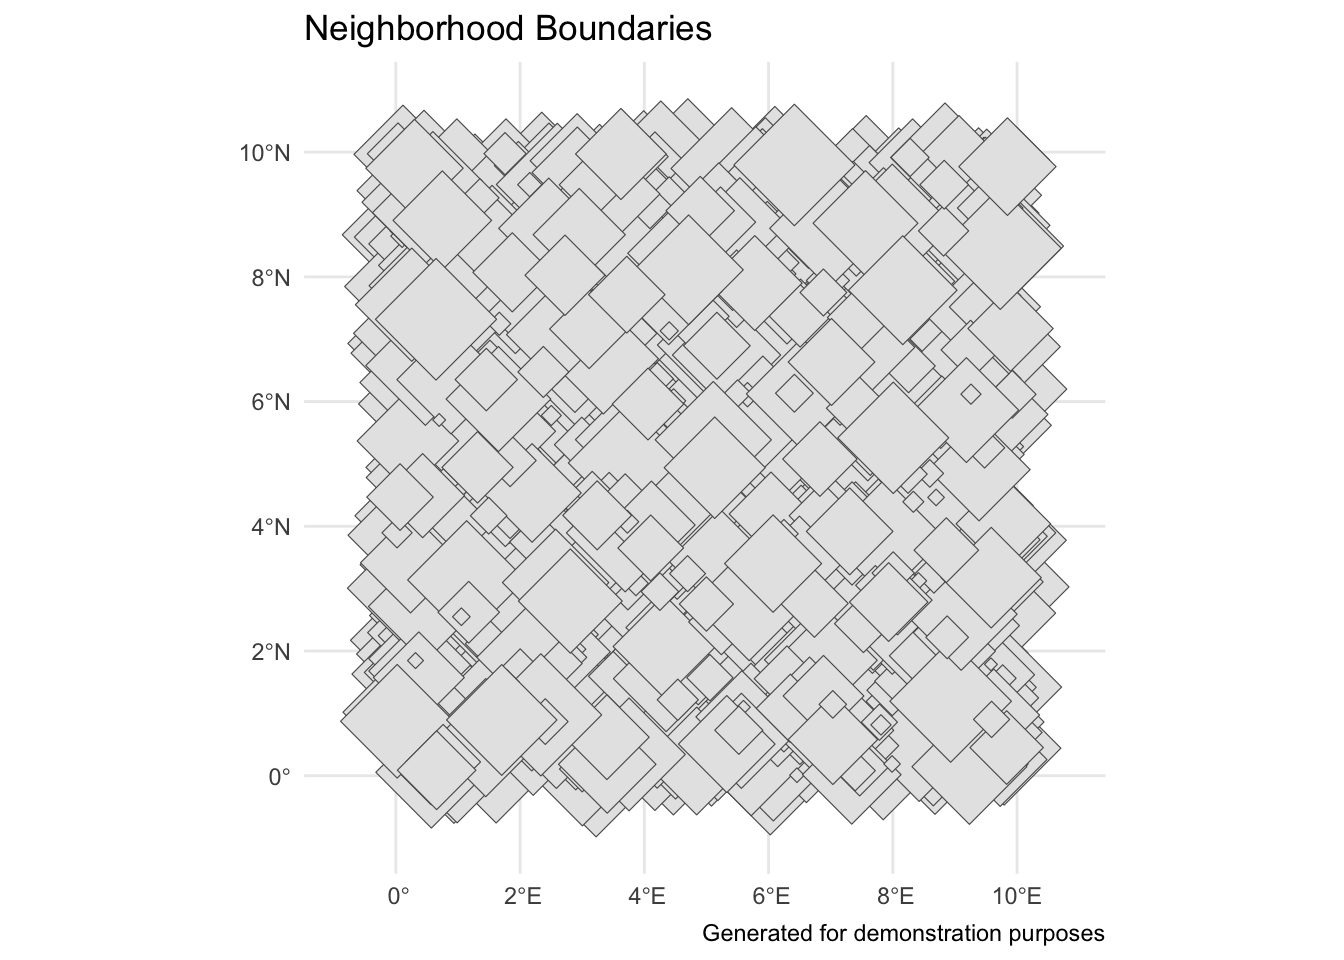
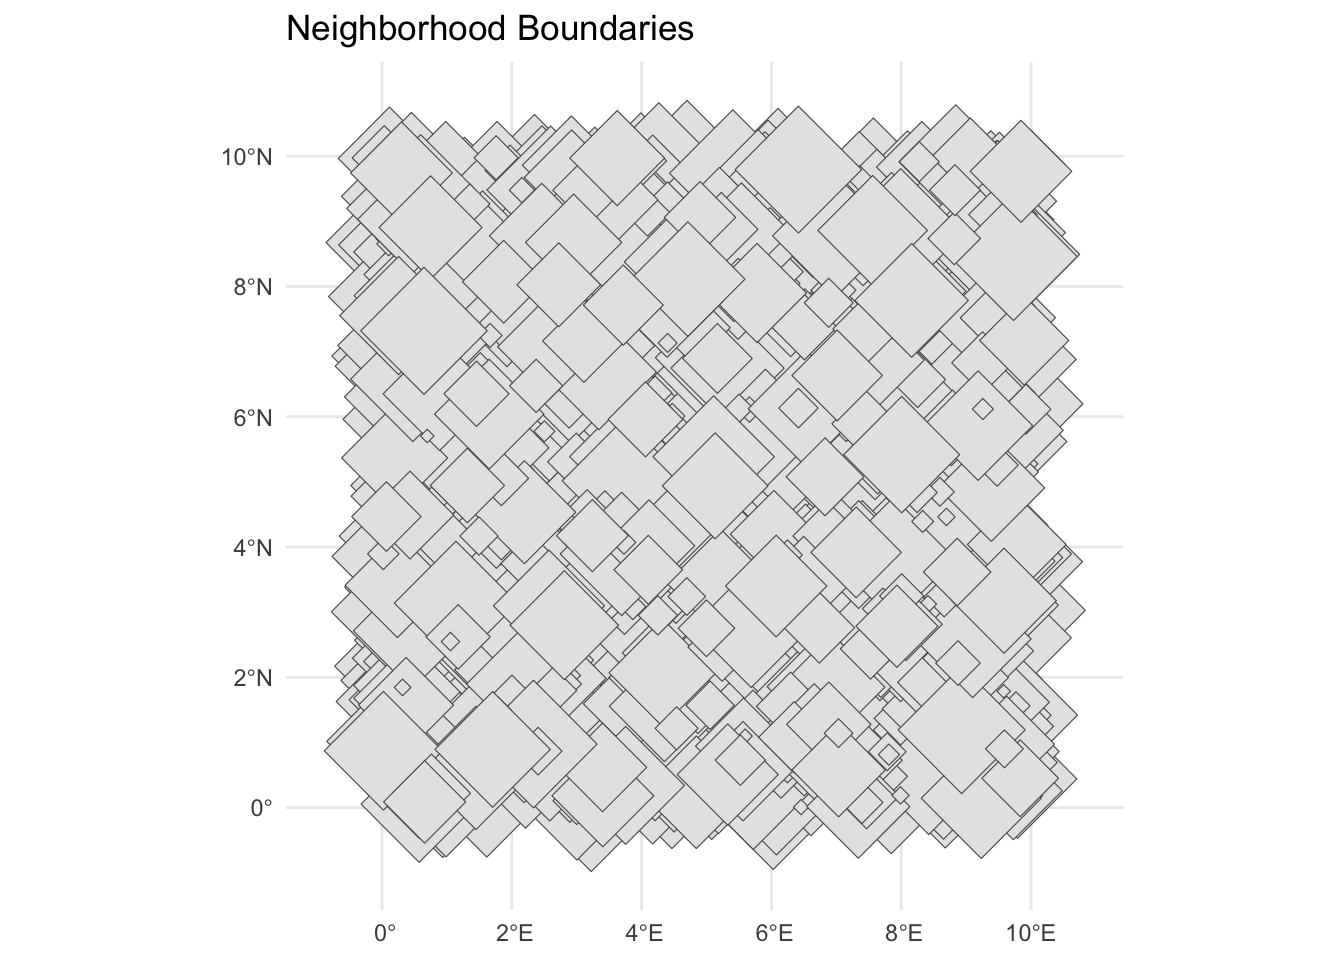
render

diff --git a/docs/multilevel.html b/docs/multilevel.html
@@ -212,7 +212,7 @@ pre > code.sourceCode > span > a:first-child::before { text-decoration: underlin
 <section id="project-description" class="level1">
 <h1>Project Description</h1>
 <p><em>This is a research project I developed during my Master’s Degree in Environmental Psychology. It includes a hierarchical model that explores the cross-level dynamics within communities in the Netherlands.</em></p>
-<p><em>I am still motivated about executing this project in a practical setting because it addresses contemporary challenges in ethnically heterogeneous neighborhoods and provides an unique approach to understanding social cohesion. It assesses the individual-level, cognitive processes in neighborhood behavior through spatial measurement, which can offer alternative evidence for policymakers’ views toward contextual level action (e.g., developing economically vital cities, demolition, and housing renovation) (Van Kempen &amp; Bolt, 2009). By bridging the gap between individual-level processes and neighborhood dynamics, this research has the potential to inform policy interventions and community development initiatives.</em></p>
+<p><em>I am still motivated about executing this project again in a different setting because it addresses contemporary challenges in ethnically heterogeneous neighborhoods and provides an unique approach to understanding social cohesion. It assesses the individual-level, cognitive processes in neighborhood behavior through spatial measurement, which can offer alternative evidence for policymakers’ views toward contextual level action (e.g., developing economically vital cities, demolition, and housing renovation) (Van Kempen &amp; Bolt, 2009). By bridging the gap between individual-level processes and neighborhood dynamics, this research has the potential to inform policy interventions and community development initiatives.</em></p>
 <ul>
 <li><p><strong><em>Outcome Variable</em></strong></p>
 <ul>
@@ -221,14 +221,14 @@ pre > code.sourceCode > span > a:first-child::before { text-decoration: underlin
 <li><p><em><strong>Demographics</strong>:</em></p>
 <ul>
 <li><p><em><code>age</code>: Normally distributed continuous variable.</em></p></li>
-<li><p><em><code>education</code>: Dichotomous variable generated using <code>rbinom</code> with a probability of 0.6 for university education.</em></p></li>
-<li><p><em><code>income</code>: Ordinal variable sampled from 1 to 5.</em></p></li>
+<li><p><em><code>education</code>: Dichotomous variable</em></p></li>
+<li><p><em><code>income</code>: Ordinal variable from 1 to 5.</em></p></li>
 <li><p><em><code>ethnicity</code>: Categorical variable sampled from four categories “A”, “B”, “C”, and “D”.</em></p></li>
 <li><p><em><code>length_res</code>: Normally distributed continuous variable for length of residency.</em></p></li>
 </ul></li>
 <li><p><em><strong>Physical Disorder</strong>:</em></p>
 <ul>
-<li><em><code>physical_disorder</code>: Ordinal variable sampled from 1 to 5.</em></li>
+<li><em><code>physical_disorder</code>: Ordinal variable from 1 to 5.</em></li>
 </ul></li>
 <li><p><em><strong>Perceived Collective Efficacy</strong>:</em></p>
 <ul>
@@ -236,11 +236,11 @@ pre > code.sourceCode > span > a:first-child::before { text-decoration: underlin
 </ul></li>
 <li><p><em><strong>Intergroup Leader</strong>:</em></p>
 <ul>
-<li><em><code>leadership</code>: Dichotomous variable generated using <code>rbinom</code>.</em></li>
+<li><em><code>leadership</code>: Dichotomous variable.</em></li>
 </ul></li>
 <li><p><em><strong>Personalized Features</strong>:</em></p>
 <ul>
-<li><em><code>names</code>, <code>art</code>, <code>playgrounds</code>: Dichotomous variables generated using <code>rbinom</code>.</em></li>
+<li><em><code>names</code>, <code>art</code>, <code>playgrounds</code>: Dichotomous variables</em></li>
 </ul></li>
 </ul>
 <section id="step-1-load-mapping-data" class="level3">
@@ -301,8 +301,7 @@ Attaching package: 'geojsonio'</code></pre>
 <span id="cb11-17"><a href="#cb11-17" aria-hidden="true" tabindex="-1"></a><span class="fu">ggplot</span>(<span class="at">data =</span> map_sf) <span class="sc">+</span></span>
 <span id="cb11-18"><a href="#cb11-18" aria-hidden="true" tabindex="-1"></a>  <span class="fu">geom_sf</span>() <span class="sc">+</span></span>
 <span id="cb11-19"><a href="#cb11-19" aria-hidden="true" tabindex="-1"></a>  <span class="fu">theme_minimal</span>() <span class="sc">+</span></span>
-<span id="cb11-20"><a href="#cb11-20" aria-hidden="true" tabindex="-1"></a>  <span class="fu">labs</span>(<span class="at">title =</span> <span class="st">"Neighborhood Boundaries"</span>,</span>
-<span id="cb11-21"><a href="#cb11-21" aria-hidden="true" tabindex="-1"></a>       <span class="at">caption =</span> <span class="st">"Generated for demonstration purposes"</span>)</span></code><button title="Copy to Clipboard" class="code-copy-button"><i class="bi"></i></button></pre></div>
+<span id="cb11-20"><a href="#cb11-20" aria-hidden="true" tabindex="-1"></a>  <span class="fu">labs</span>(<span class="at">title =</span> <span class="st">"Neighborhood Boundaries"</span>)</span></code><button title="Copy to Clipboard" class="code-copy-button"><i class="bi"></i></button></pre></div>
 <div class="cell-output-display">
 <div>
 <figure class="figure">
@@ -321,19 +320,19 @@ Attaching package: 'geojsonio'</code></pre>
 <div class="cell-output cell-output-stdout">
 <pre><code>
 The downloaded binary packages are in
-    /var/folders/k3/v39j6g_x4bv7mv_xq03986d00000gn/T//Rtmpnle3ow/downloaded_packages</code></pre>
+    /var/folders/k3/v39j6g_x4bv7mv_xq03986d00000gn/T//RtmpMMFKu3/downloaded_packages</code></pre>
 </div>
 <div class="sourceCode cell-code" id="cb14"><pre class="sourceCode r code-with-copy"><code class="sourceCode r"><span id="cb14-1"><a href="#cb14-1" aria-hidden="true" tabindex="-1"></a><span class="fu">install.packages</span>(<span class="st">"car"</span>)</span></code><button title="Copy to Clipboard" class="code-copy-button"><i class="bi"></i></button></pre></div>
 <div class="cell-output cell-output-stdout">
 <pre><code>
 The downloaded binary packages are in
-    /var/folders/k3/v39j6g_x4bv7mv_xq03986d00000gn/T//Rtmpnle3ow/downloaded_packages</code></pre>
+    /var/folders/k3/v39j6g_x4bv7mv_xq03986d00000gn/T//RtmpMMFKu3/downloaded_packages</code></pre>
 </div>
 <div class="sourceCode cell-code" id="cb16"><pre class="sourceCode r code-with-copy"><code class="sourceCode r"><span id="cb16-1"><a href="#cb16-1" aria-hidden="true" tabindex="-1"></a><span class="fu">install.packages</span>(<span class="st">"ggplot2"</span>)</span></code><button title="Copy to Clipboard" class="code-copy-button"><i class="bi"></i></button></pre></div>
 <div class="cell-output cell-output-stdout">
 <pre><code>
 The downloaded binary packages are in
-    /var/folders/k3/v39j6g_x4bv7mv_xq03986d00000gn/T//Rtmpnle3ow/downloaded_packages</code></pre>
+    /var/folders/k3/v39j6g_x4bv7mv_xq03986d00000gn/T//RtmpMMFKu3/downloaded_packages</code></pre>
 </div>
 <div class="sourceCode cell-code" id="cb18"><pre class="sourceCode r code-with-copy"><code class="sourceCode r"><span id="cb18-1"><a href="#cb18-1" aria-hidden="true" tabindex="-1"></a><span class="fu">library</span>(lme4)</span></code><button title="Copy to Clipboard" class="code-copy-button"><i class="bi"></i></button></pre></div>
 <div class="cell-output cell-output-stderr">
@@ -358,10 +357,9 @@ Attaching package: 'car'</code></pre>
 <span id="cb24-4"><a href="#cb24-4" aria-hidden="true" tabindex="-1"></a>data <span class="ot">&lt;-</span> <span class="fu">read.csv</span>(<span class="st">"multilevel_model_data.csv"</span>)</span>
 <span id="cb24-5"><a href="#cb24-5" aria-hidden="true" tabindex="-1"></a></span>
 <span id="cb24-6"><a href="#cb24-6" aria-hidden="true" tabindex="-1"></a><span class="co"># Merge datasets</span></span>
-<span id="cb24-7"><a href="#cb24-7" aria-hidden="true" tabindex="-1"></a><span class="co"># Create the `id` column</span></span>
-<span id="cb24-8"><a href="#cb24-8" aria-hidden="true" tabindex="-1"></a>data<span class="sc">$</span>id <span class="ot">&lt;-</span> <span class="dv">1</span><span class="sc">:</span><span class="fu">nrow</span>(data)</span>
-<span id="cb24-9"><a href="#cb24-9" aria-hidden="true" tabindex="-1"></a>data <span class="ot">&lt;-</span> data <span class="sc">%&gt;%</span></span>
-<span id="cb24-10"><a href="#cb24-10" aria-hidden="true" tabindex="-1"></a>  <span class="fu">left_join</span>(map_sf <span class="sc">%&gt;%</span> <span class="fu">select</span>(id, area), <span class="at">by =</span> <span class="st">"id"</span>)</span></code><button title="Copy to Clipboard" class="code-copy-button"><i class="bi"></i></button></pre></div>
+<span id="cb24-7"><a href="#cb24-7" aria-hidden="true" tabindex="-1"></a>data<span class="sc">$</span>id <span class="ot">&lt;-</span> <span class="dv">1</span><span class="sc">:</span><span class="fu">nrow</span>(data)</span>
+<span id="cb24-8"><a href="#cb24-8" aria-hidden="true" tabindex="-1"></a>data <span class="ot">&lt;-</span> data <span class="sc">%&gt;%</span></span>
+<span id="cb24-9"><a href="#cb24-9" aria-hidden="true" tabindex="-1"></a>  <span class="fu">left_join</span>(map_sf <span class="sc">%&gt;%</span> <span class="fu">select</span>(id, area), <span class="at">by =</span> <span class="st">"id"</span>)</span></code><button title="Copy to Clipboard" class="code-copy-button"><i class="bi"></i></button></pre></div>
 </div>
 </section>
 <section id="step-3-exploratory-data-analysis" class="level3">

diff --git a/docs/index.html b/docs/index.html
@@ -200,7 +200,7 @@ ul.task-list li input[type="checkbox"] {
 </section>
 <section id="learn-r" class="level2">
 <h2 class="anchored" data-anchor-id="learn-r">Learn R</h2>
-<p>If you’re new to R or if you are a part of my tutoring program, you’ve come to the right place. Here, I provide beginner-friendly tutorials and resources to help you navigate the basics of R programming.</p>
+<p>If you’re new to R or part of my tutoring program, you’ve come to the right place. Here, I offer beginner-friendly tutorials and resources to help you master the basics of R programming.</p>
 </section>
 <section id="connect-with-me" class="level2">
 <h2 class="anchored" data-anchor-id="connect-with-me">Connect with Me</h2>
